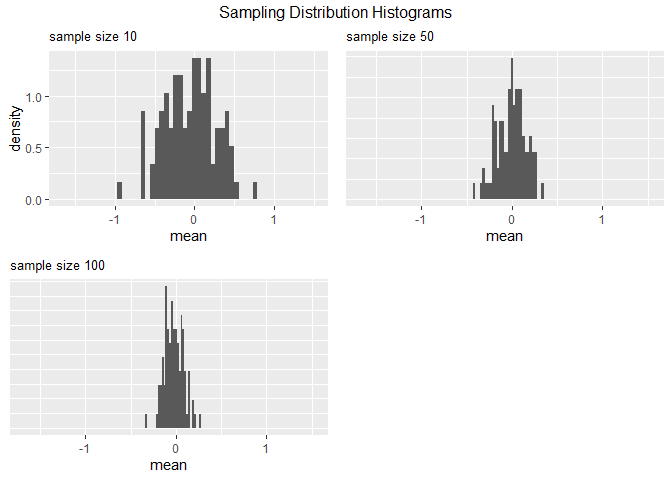
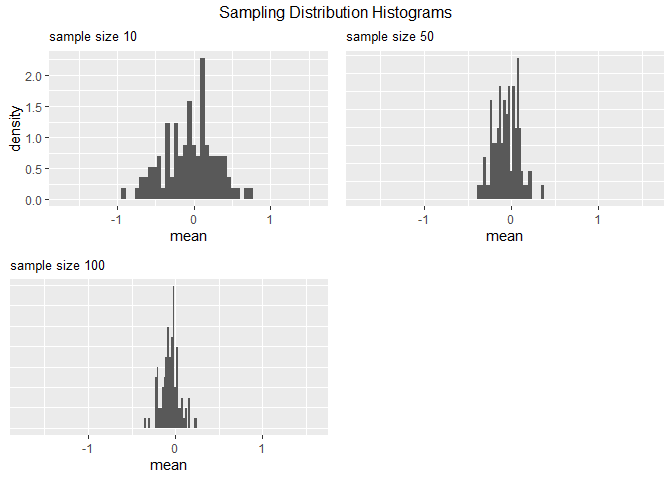
updated readme to reflect changes to sampling histogram function

diff --git a/README.md b/README.md
@@ -159,7 +159,7 @@ plot_sample_hist(pop, samples, var_name, sample_size)
 
 ``` r
 library(samplingsimulatorr)
-plot_sampling_hist(samples, var_name, sample_size, reps)
+plot_sampling_hist(samples, var_name, sample_size)
 ```
 
 **Arguments:**
@@ -169,9 +169,6 @@ plot_sampling_hist(samples, var_name, sample_size, reps)
     generated
   - `sample_size` a vector of the sample sizes (each sample size needs
     to be in the `samples` df input)
-  - `reps` the number of replication for each sample size as an integer
-    (should be less than or equal to the number of replications in
-    `samples`)
 
 **Example:**
 
@@ -205,12 +202,12 @@ head(pop)
 #> # A tibble: 6 x 1
 #>   height
 #>    <dbl>
-#> 1 -0.459
-#> 2  0.615
-#> 3  1.16 
-#> 4  0.919
-#> 5 -0.293
-#> 6 -1.56
+#> 1  1.07 
+#> 2  0.707
+#> 3  0.853
+#> 4 -1.63 
+#> 5 -0.512
+#> 6 -0.833
 ```
 
 ``` r
@@ -219,14 +216,14 @@ samples <- draw_samples(pop, 100, c(1, 10, 50, 100))
 head(samples)
 #> # A tibble: 6 x 4
 #> # Groups:   replicate [6]
-#>   replicate height  size rep_size
-#>       <int>  <dbl> <dbl>    <dbl>
-#> 1         1 -0.825     1      100
-#> 2         2 -1.03      1      100
-#> 3         3  0.398     1      100
-#> 4         4 -0.209     1      100
-#> 5         5  0.279     1      100
-#> 6         6  1.73      1      100
+#>   replicate    height  size rep_size
+#>       <int>     <dbl> <dbl>    <dbl>
+#> 1         1  0.804        1      100
+#> 2         2 -0.883        1      100
+#> 3         3 -1.69         1      100
+#> 4         4  0.000492     1      100
+#> 5         5  1.17         1      100
+#> 6         6 -0.738        1      100
 ```
 
 ``` r
@@ -241,7 +238,7 @@ plot_sample_hist(pop, samples, height, c(10, 50, 100))
 <img src="man/figures/README-unnamed-chunk-4-1.png" width="100%" />
 
 ``` r
-plot_sampling_hist(samples, height, c(10, 50, 100), 100)
+plot_sampling_hist(samples, height, c(10, 50, 100))
 #> `stat_bin()` using `bins = 30`. Pick better value with `binwidth`.
 #> `stat_bin()` using `bins = 30`. Pick better value with `binwidth`.
 #> `stat_bin()` using `bins = 30`. Pick better value with `binwidth`.
